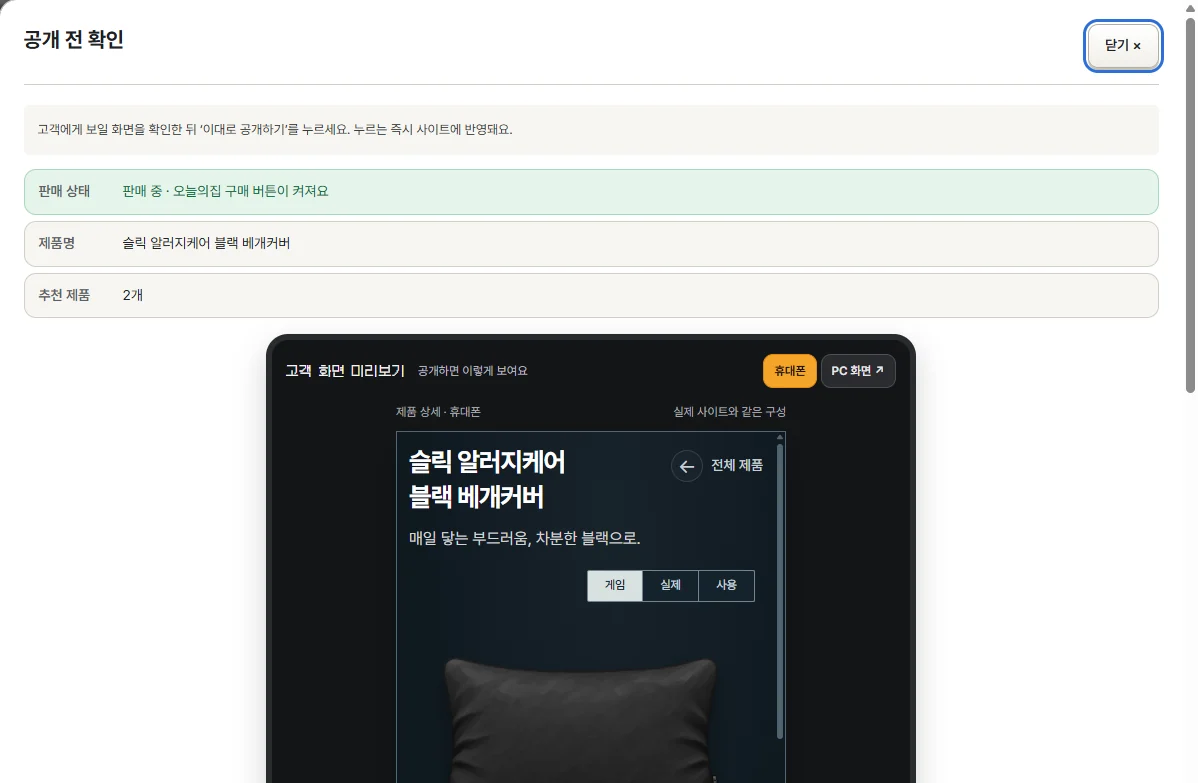
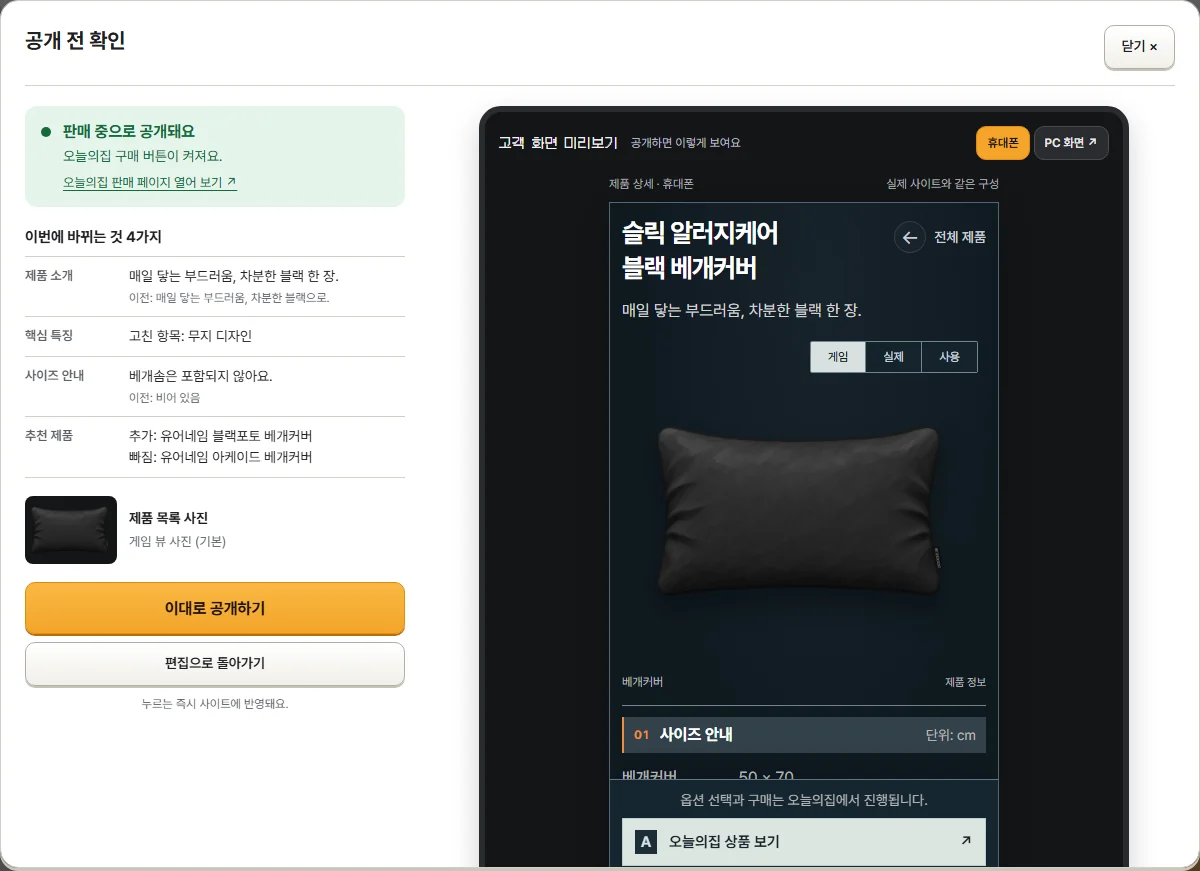
feat: N°BLACK 공개 전 확인 캡처를 바뀌는 내용이 보이는 화면으로 교체
공개 전 확인 창에서 이번에 바뀌는 것 4가지가 이전 값과 함께 보이는 캡처로 바꾸고, 이미지 크기·설명과 자료 문서의 캡처 출처를 갱신했습니다.

diff --git a/src/project-details.js b/src/project-details.js
@@ -401,7 +401,7 @@ const noblack = {
           { title: '관리자 보안과 파일 검증', html: 'Spring Security 세션 인증, Argon2id 비밀번호 해시, CSRF 토큰, 연속 실패 잠금을 적용했습니다. 업로드 파일은 실제 형식과 크기를 검사하고, 사용 중인 파일은 지울 수 없게 했습니다.' },
         ] },
         { t: 'figure', src: '/assets/noblack-screens/admin-edit.webp', w: 1190, h: 834, alt: '밝은 관리자 제품 편집 화면. 위쪽에 공개에 필요한 내용을 모두 채웠다는 안내와 이름·소개, 사진, 판매 주소 같은 바로가기 버튼이 있고, 아래에 필수 표시가 붙은 제품명 입력 칸이 있음. 제품명 칸을 누르자 오른쪽 고객 화면 미리보기의 제품명 자리에 주황색 테두리가 생김', caption: '제품 편집 — 입력 칸을 누르면 미리보기에서 그 값이 나오는 자리가 강조됨 · 운영 화면 캡처' },
-        { t: 'figure', src: '/assets/noblack-screens/admin-publish.webp', w: 1198, h: 783, alt: '공개 전 확인 창. 판매 상태·제품명·추천 제품 수를 요약하고, 그 아래에 공개하면 고객에게 보일 휴대폰 화면을 미리 보여 줌', caption: '공개 전 확인 — 바뀌는 내용과 고객에게 보일 화면을 확인한 뒤 공개 · 운영 화면 캡처' },
+        { t: 'figure', src: '/assets/noblack-screens/admin-publish.webp', w: 1200, h: 871, alt: '공개 전 확인 창. 왼쪽에 판매 중으로 공개된다는 안내와 이번에 바뀌는 것 4가지(제품 소개·핵심 특징·사이즈 안내·추천 제품)를 이전 값과 함께 보여 주고, 오른쪽에 공개하면 고객에게 보일 휴대폰 화면을 미리 보여 줌', caption: '공개 전 확인 — 바뀌는 내용과 고객에게 보일 화면을 확인한 뒤 공개 · 운영 화면 캡처' },
         { t: 'fold', title: '주요 API', sub: '공개 조회 · 관리자 · 판매 링크', blocks: [
           { t: 'table', head: ['구분', '경로', '역할'], rows: [
             ['공개 조회', '<code>GET /api/products/**</code>, <code>/api/guides/**</code>', '게시된 제품·안내 조회'],
